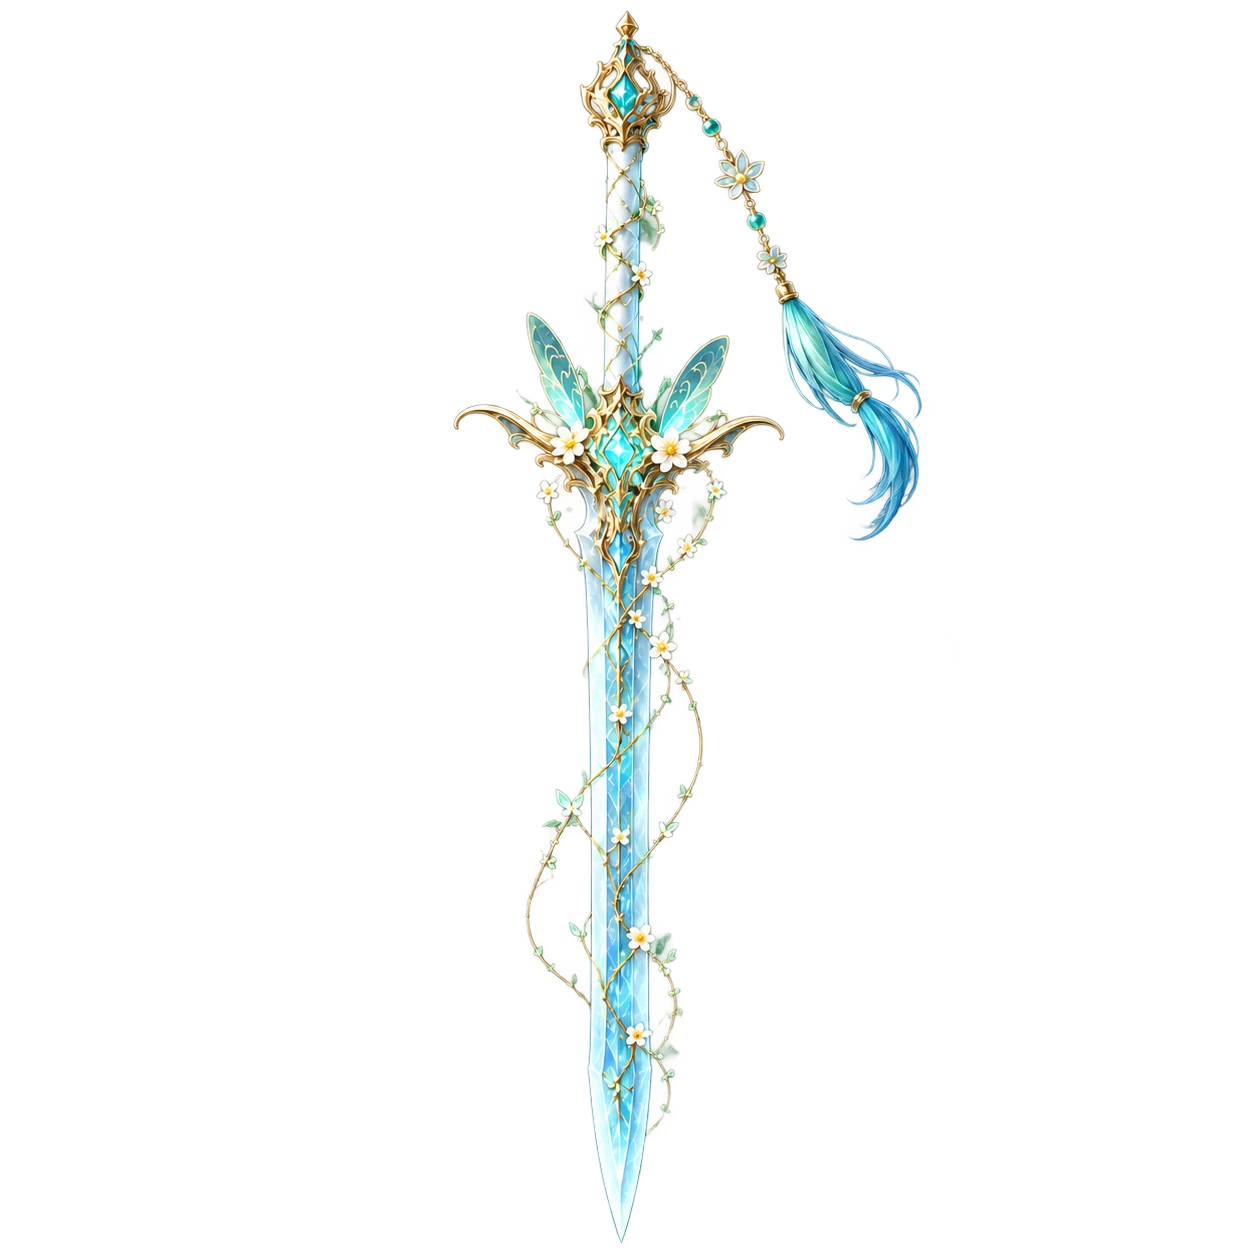
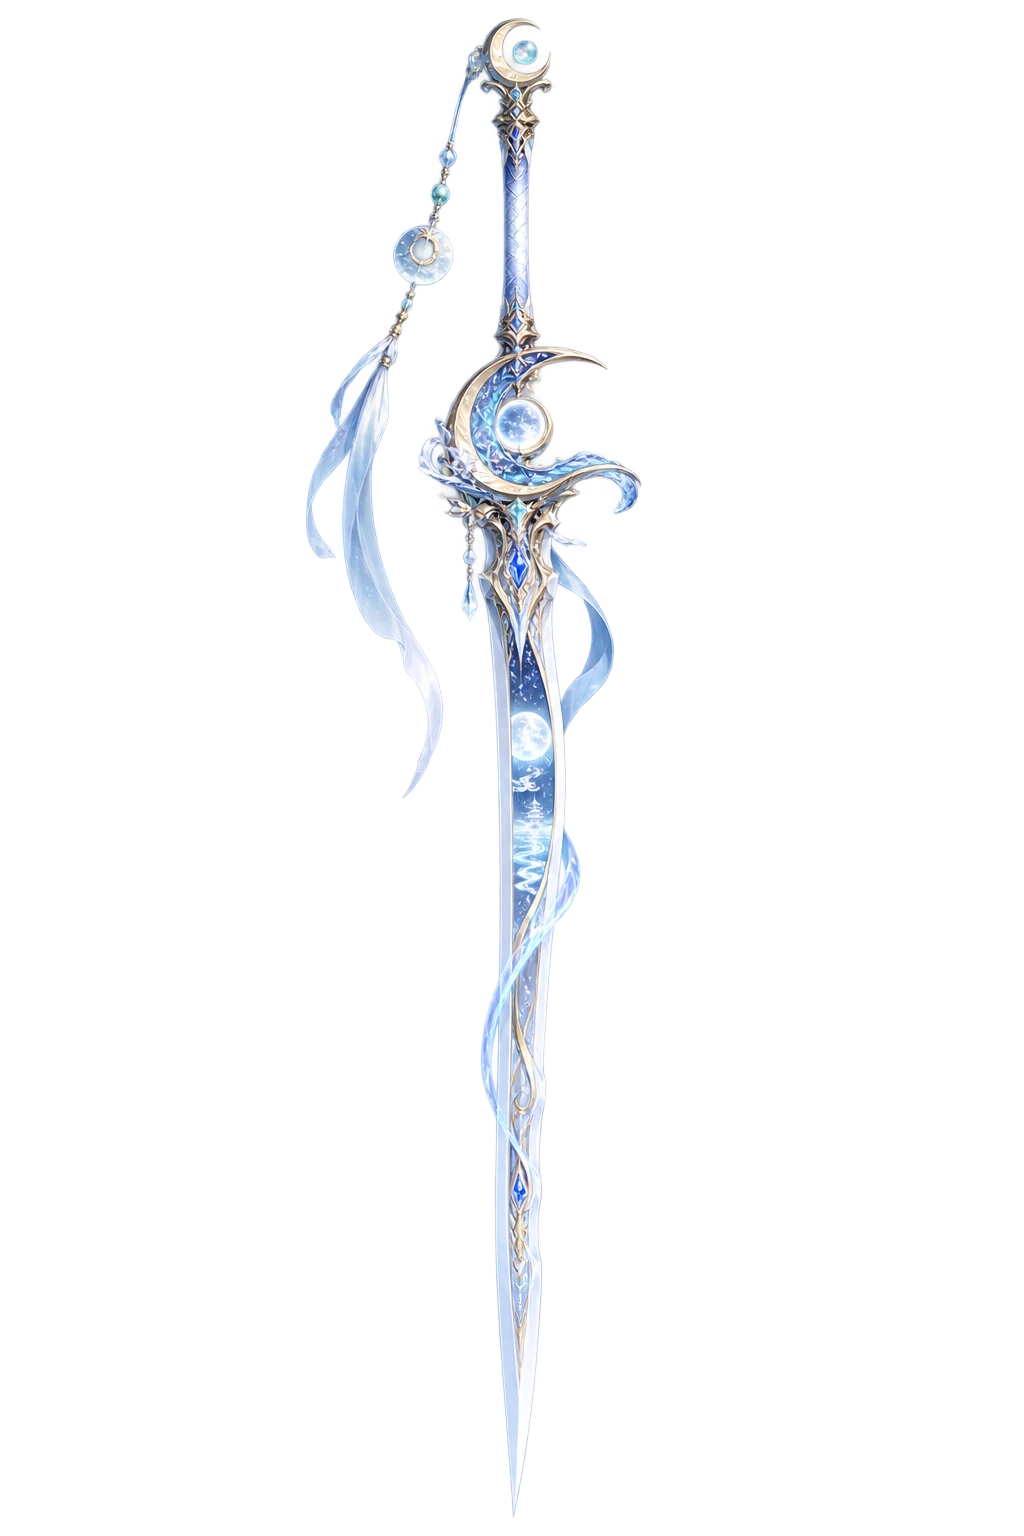
Put the right pictures on 九霄雷獄劍, 皓月流光劍 and 碧蘿花靈劍
The three images were swapped between the swords. Each image keeps the display scale it was tuned with.

Changed region(s): [[0.2812, 0.0, 0.75, 0.9952]]

diff --git a/src/game/weapons/weaponConfigs.ts b/src/game/weapons/weaponConfigs.ts
@@ -12,15 +12,15 @@ const effects = (
 });
 
 export const weaponConfigs: readonly WeaponConfig[] = [
-  { weaponId: "weapon_01", nameZh: "九霄雷獄劍", element: "雷", weaponType: "重型大劍", assetPath: asset("九霄雷獄劍"), spriteKey: "weapon_01", baseDamage: 150, attackSpeed: 0.8, baseCritRate: 0.08, gripPoint: defaultWeaponGeometry.weapon_01.gripPoint, socketOffset: { x: 84, y: -92, rotation: -24 }, displayScale: 0.43, rotationOffset: 0, attackAnimation: "雷霆重斬", attackTimeline: { windupMs: 180, swingMs: 160, impactMs: 50, recoveryMs: 220, windupAngle: -82, swingAngle: 12, recoveryAngle: -5, activeStart: 0.54, activeEnd: 0.9 }, bladeGeometry: defaultWeaponGeometry.weapon_01.bladeGeometry, bladeShape: defaultWeaponGeometry.weapon_01.bladeShape, hitboxConfig: { shape: "blade-sweep", thickness: 46 }, trailConfig: { color: 0x9ddcff, width: 28, alpha: 0.78 }, impactConfig: { color: 0xe5f7ff, knockback: 68, hitStopMs: 45, cameraShake: 0.012 }, soundConfig: sound("thunder_greatsword"), ...effects("雷靈淬體", "最終攻擊 +0.5%", { attackPercent: 0.005, critRateBonus: 0, attackSpeedBonus: 0 }, "雷獄重壓", "最終攻擊 +8%", { attackPercent: 0.08, critRateBonus: 0, attackSpeedBonus: 0 }) },
+  { weaponId: "weapon_01", nameZh: "九霄雷獄劍", element: "雷", weaponType: "重型大劍", assetPath: asset("九霄雷獄劍"), spriteKey: "weapon_01", baseDamage: 150, attackSpeed: 0.8, baseCritRate: 0.08, gripPoint: defaultWeaponGeometry.weapon_01.gripPoint, socketOffset: { x: 84, y: -92, rotation: -24 }, displayScale: 0.38, rotationOffset: 0, attackAnimation: "雷霆重斬", attackTimeline: { windupMs: 180, swingMs: 160, impactMs: 50, recoveryMs: 220, windupAngle: -82, swingAngle: 12, recoveryAngle: -5, activeStart: 0.54, activeEnd: 0.9 }, bladeGeometry: defaultWeaponGeometry.weapon_01.bladeGeometry, bladeShape: defaultWeaponGeometry.weapon_01.bladeShape, hitboxConfig: { shape: "blade-sweep", thickness: 46 }, trailConfig: { color: 0x9ddcff, width: 28, alpha: 0.78 }, impactConfig: { color: 0xe5f7ff, knockback: 68, hitStopMs: 45, cameraShake: 0.012 }, soundConfig: sound("thunder_greatsword"), ...effects("雷靈淬體", "最終攻擊 +0.5%", { attackPercent: 0.005, critRateBonus: 0, attackSpeedBonus: 0 }, "雷獄重壓", "最終攻擊 +8%", { attackPercent: 0.08, critRateBonus: 0, attackSpeedBonus: 0 }) },
   { weaponId: "weapon_02", nameZh: "星穹弦月刃", element: "星月", weaponType: "彎刃劍", assetPath: asset("星穹弦月刃"), spriteKey: "weapon_02", baseDamage: 161, attackSpeed: 0.9, baseCritRate: 0.09, gripPoint: defaultWeaponGeometry.weapon_02.gripPoint, socketOffset: { x: 88, y: -102, rotation: -34 }, displayScale: 0.37, rotationOffset: 0, attackAnimation: "星月弧斬", attackTimeline: { windupMs: 90, swingMs: 220, impactMs: 45, recoveryMs: 120, windupAngle: 108, swingAngle: -72, recoveryAngle: -28, activeStart: 0.2, activeEnd: 0.9 }, bladeGeometry: defaultWeaponGeometry.weapon_02.bladeGeometry, bladeShape: defaultWeaponGeometry.weapon_02.bladeShape, hitboxConfig: { shape: "blade-sweep", thickness: 28 }, trailConfig: { color: 0x7895ff, width: 18, alpha: 0.65 }, impactConfig: { color: 0xc7d9ff, knockback: 18, hitStopMs: 18, cameraShake: 0.003 }, soundConfig: sound("star_moon"), ...effects("星屑感應", "暴擊率 +0.75%", { attackPercent: 0, critRateBonus: 0.0075, attackSpeedBonus: 0 }, "弦月疾舞", "攻速 +10%", { attackPercent: 0, critRateBonus: 0, attackSpeedBonus: 0.1 }) },
-  { weaponId: "weapon_03", nameZh: "皓月流光劍", element: "月", weaponType: "輕型長劍", assetPath: asset("皓月流光劍"), spriteKey: "weapon_03", baseDamage: 191, attackSpeed: 1, baseCritRate: 0.1, gripPoint: defaultWeaponGeometry.weapon_03.gripPoint, socketOffset: { x: 88, y: -104, rotation: -28 }, displayScale: 0.48, rotationOffset: 0, attackAnimation: "月華連刺", attackTimeline: { windupMs: 80, swingMs: 190, impactMs: 40, recoveryMs: 110, windupAngle: -8, swingAngle: -18, recoveryAngle: -12, activeStart: 0.26, activeEnd: 0.78 }, bladeGeometry: defaultWeaponGeometry.weapon_03.bladeGeometry, bladeShape: defaultWeaponGeometry.weapon_03.bladeShape, hitboxConfig: { shape: "blade-sweep", thickness: 24 }, trailConfig: { color: 0xd9efff, width: 16, alpha: 0.72 }, impactConfig: { color: 0xf3fbff, knockback: 22, hitStopMs: 18, cameraShake: 0.003 }, soundConfig: sound("moonlight"), ...effects("月華潤息", "攻速 +1%", { attackPercent: 0, critRateBonus: 0, attackSpeedBonus: 0.01 }, "流光連刺", "暴擊率 +5%", { attackPercent: 0, critRateBonus: 0.05, attackSpeedBonus: 0 }) },
+  { weaponId: "weapon_03", nameZh: "皓月流光劍", element: "月", weaponType: "輕型長劍", assetPath: asset("皓月流光劍"), spriteKey: "weapon_03", baseDamage: 191, attackSpeed: 1, baseCritRate: 0.1, gripPoint: defaultWeaponGeometry.weapon_03.gripPoint, socketOffset: { x: 88, y: -104, rotation: -28 }, displayScale: 0.43, rotationOffset: 0, attackAnimation: "月華連刺", attackTimeline: { windupMs: 80, swingMs: 190, impactMs: 40, recoveryMs: 110, windupAngle: -8, swingAngle: -18, recoveryAngle: -12, activeStart: 0.26, activeEnd: 0.78 }, bladeGeometry: defaultWeaponGeometry.weapon_03.bladeGeometry, bladeShape: defaultWeaponGeometry.weapon_03.bladeShape, hitboxConfig: { shape: "blade-sweep", thickness: 24 }, trailConfig: { color: 0xd9efff, width: 16, alpha: 0.72 }, impactConfig: { color: 0xf3fbff, knockback: 22, hitStopMs: 18, cameraShake: 0.003 }, soundConfig: sound("moonlight"), ...effects("月華潤息", "攻速 +1%", { attackPercent: 0, critRateBonus: 0, attackSpeedBonus: 0.01 }, "流光連刺", "暴擊率 +5%", { attackPercent: 0, critRateBonus: 0.05, attackSpeedBonus: 0 }) },
   { weaponId: "weapon_04", nameZh: "宙時星盤劍", element: "時空", weaponType: "星盤法劍", assetPath: asset("宙時星盤劍"), spriteKey: "weapon_04", baseDamage: 212, attackSpeed: 1.1, baseCritRate: 0.11, gripPoint: defaultWeaponGeometry.weapon_04.gripPoint, socketOffset: { x: 80, y: -104, rotation: -12 }, displayScale: 0.34, rotationOffset: 0, attackAnimation: "時滯斬擊", attackTimeline: { windupMs: 170, swingMs: 310, impactMs: 60, recoveryMs: 180, windupAngle: 112, swingAngle: -52, recoveryAngle: -12, activeStart: 0.42, activeEnd: 0.82 }, bladeGeometry: defaultWeaponGeometry.weapon_04.bladeGeometry, bladeShape: defaultWeaponGeometry.weapon_04.bladeShape, hitboxConfig: { shape: "blade-sweep", thickness: 38 }, trailConfig: { color: 0x6daeff, width: 22, alpha: 0.65 }, impactConfig: { color: 0xd7edff, knockback: 28, hitStopMs: 32, cameraShake: 0.005 }, soundConfig: sound("chrono"), ...effects("時序感悟", "最終攻擊 +1.25%", { attackPercent: 0.0125, critRateBonus: 0, attackSpeedBonus: 0 }, "星盤加速", "暴擊率 +2%・攻速 +4%", { attackPercent: 0, critRateBonus: 0.02, attackSpeedBonus: 0.04 }) },
   { weaponId: "weapon_05", nameZh: "天穹星輝劍", element: "星光", weaponType: "聖光長劍", assetPath: asset("天穹星輝劍"), spriteKey: "weapon_05", baseDamage: 233, attackSpeed: 1.2, baseCritRate: 0.12, gripPoint: defaultWeaponGeometry.weapon_05.gripPoint, socketOffset: { x: 82, y: -104, rotation: -22 }, displayScale: 0.34, rotationOffset: 0, attackAnimation: "星輝劍氣", attackTimeline: { windupMs: 150, swingMs: 280, impactMs: 60, recoveryMs: 170, windupAngle: 118, swingAngle: -48, recoveryAngle: -16, activeStart: 0.38, activeEnd: 0.82 }, bladeGeometry: defaultWeaponGeometry.weapon_05.bladeGeometry, bladeShape: defaultWeaponGeometry.weapon_05.bladeShape, hitboxConfig: { shape: "blade-sweep", thickness: 34 }, trailConfig: { color: 0xbfe4ff, width: 22, alpha: 0.7 }, impactConfig: { color: 0xffffff, knockback: 32, hitStopMs: 30, cameraShake: 0.005 }, soundConfig: sound("starlight"), ...effects("星輝祝福", "暴擊率 +1.5%", { attackPercent: 0, critRateBonus: 0.015, attackSpeedBonus: 0 }, "聖輝爆發", "最終攻擊 +5%・攻速 +5%", { attackPercent: 0.05, critRateBonus: 0, attackSpeedBonus: 0.05 }) },
   { weaponId: "weapon_06", nameZh: "霜月清輝劍", element: "冰月", weaponType: "細劍", assetPath: asset("霜月清輝劍"), spriteKey: "weapon_06", baseDamage: 284, attackSpeed: 1.3, baseCritRate: 0.13, gripPoint: defaultWeaponGeometry.weapon_06.gripPoint, socketOffset: { x: 90, y: -104, rotation: -42 }, displayScale: 0.38, rotationOffset: 0, attackAnimation: "寒霜突刺", attackTimeline: { windupMs: 70, swingMs: 170, impactMs: 35, recoveryMs: 100, windupAngle: 4, swingAngle: -42, recoveryAngle: -30, activeStart: 0.24, activeEnd: 0.72 }, bladeGeometry: defaultWeaponGeometry.weapon_06.bladeGeometry, bladeShape: defaultWeaponGeometry.weapon_06.bladeShape, hitboxConfig: { shape: "blade-sweep", thickness: 20 }, trailConfig: { color: 0xc8f5ff, width: 14, alpha: 0.7 }, impactConfig: { color: 0xe9fdff, knockback: 16, hitStopMs: 14, cameraShake: 0.002 }, soundConfig: sound("frost_rapier"), ...effects("霜月凝息", "攻速 +1.75%", { attackPercent: 0, critRateBonus: 0, attackSpeedBonus: 0.0175 }, "冰月突刺", "暴擊率 +4%", { attackPercent: 0, critRateBonus: 0.04, attackSpeedBonus: 0 }) },
   { weaponId: "weapon_07", nameZh: "雲羽冰華劍", element: "冰風", weaponType: "羽紋仙劍", assetPath: asset("雲羽冰華劍"), spriteKey: "weapon_07", baseDamage: 313, attackSpeed: 1.4, baseCritRate: 0.14, gripPoint: defaultWeaponGeometry.weapon_07.gripPoint, socketOffset: { x: 84, y: -104, rotation: -30 }, displayScale: 0.33, rotationOffset: 0, attackAnimation: "冰羽連斬", attackTimeline: { windupMs: 110, swingMs: 240, impactMs: 50, recoveryMs: 140, windupAngle: 112, swingAngle: -65, recoveryAngle: -22, activeStart: 0.28, activeEnd: 0.86 }, bladeGeometry: defaultWeaponGeometry.weapon_07.bladeGeometry, bladeShape: defaultWeaponGeometry.weapon_07.bladeShape, hitboxConfig: { shape: "blade-sweep", thickness: 30 }, trailConfig: { color: 0xe1faff, width: 19, alpha: 0.66 }, impactConfig: { color: 0xe8fbff, knockback: 22, hitStopMs: 20, cameraShake: 0.003 }, soundConfig: sound("ice_feather"), ...effects("雲羽靈動", "暴擊率 +2%", { attackPercent: 0, critRateBonus: 0.02, attackSpeedBonus: 0 }, "冰羽連舞", "攻速 +7%", { attackPercent: 0, critRateBonus: 0, attackSpeedBonus: 0.07 }) },
   { weaponId: "weapon_08", nameZh: "玄霜雪魄劍", element: "冰", weaponType: "寒冰重劍", assetPath: asset("玄霜雪魄劍"), spriteKey: "weapon_08", baseDamage: 365, attackSpeed: 1.5, baseCritRate: 0.15, gripPoint: defaultWeaponGeometry.weapon_08.gripPoint, socketOffset: { x: 78, y: -94, rotation: -16 }, displayScale: 0.43, rotationOffset: 0, attackAnimation: "冰爆重斬", attackTimeline: { windupMs: 250, swingMs: 340, impactMs: 75, recoveryMs: 240, windupAngle: 142, swingAngle: -40, recoveryAngle: -12, activeStart: 0.5, activeEnd: 0.86 }, bladeGeometry: defaultWeaponGeometry.weapon_08.bladeGeometry, bladeShape: defaultWeaponGeometry.weapon_08.bladeShape, hitboxConfig: { shape: "blade-sweep", thickness: 48 }, trailConfig: { color: 0xa5e5ff, width: 30, alpha: 0.75 }, impactConfig: { color: 0xe1faff, knockback: 62, hitStopMs: 64, cameraShake: 0.011 }, soundConfig: sound("ice_greatsword"), ...effects("雪魄護體", "最終攻擊 +2.25%", { attackPercent: 0.0225, critRateBonus: 0, attackSpeedBonus: 0 }, "玄霜重壓", "最終攻擊 +10%", { attackPercent: 0.1, critRateBonus: 0, attackSpeedBonus: 0 }) },
-  { weaponId: "weapon_09", nameZh: "碧蘿花靈劍", element: "木", weaponType: "木靈花劍", assetPath: asset("碧蘿花靈劍"), spriteKey: "weapon_09", baseDamage: 442, attackSpeed: 1.6, baseCritRate: 0.16, gripPoint: defaultWeaponGeometry.weapon_09.gripPoint, socketOffset: { x: 84, y: -104, rotation: -26 }, displayScale: 0.38, rotationOffset: 0, attackAnimation: "花藤纏繞", attackTimeline: { windupMs: 130, swingMs: 270, impactMs: 55, recoveryMs: 160, windupAngle: 116, swingAngle: -56, recoveryAngle: -18, activeStart: 0.35, activeEnd: 0.82 }, bladeGeometry: defaultWeaponGeometry.weapon_09.bladeGeometry, bladeShape: defaultWeaponGeometry.weapon_09.bladeShape, hitboxConfig: { shape: "blade-sweep", thickness: 34 }, trailConfig: { color: 0x85d999, width: 21, alpha: 0.68 }, impactConfig: { color: 0xc7ffd5, knockback: 25, hitStopMs: 24, cameraShake: 0.004 }, soundConfig: sound("flora"), ...effects("木靈滋養", "暴擊率 +2.5%", { attackPercent: 0, critRateBonus: 0.025, attackSpeedBonus: 0 }, "花靈綻放", "最終攻擊 +4%・暴擊率 +3%", { attackPercent: 0.04, critRateBonus: 0.03, attackSpeedBonus: 0 }) },
+  { weaponId: "weapon_09", nameZh: "碧蘿花靈劍", element: "木", weaponType: "木靈花劍", assetPath: asset("碧蘿花靈劍"), spriteKey: "weapon_09", baseDamage: 442, attackSpeed: 1.6, baseCritRate: 0.16, gripPoint: defaultWeaponGeometry.weapon_09.gripPoint, socketOffset: { x: 84, y: -104, rotation: -26 }, displayScale: 0.48, rotationOffset: 0, attackAnimation: "花藤纏繞", attackTimeline: { windupMs: 130, swingMs: 270, impactMs: 55, recoveryMs: 160, windupAngle: 116, swingAngle: -56, recoveryAngle: -18, activeStart: 0.35, activeEnd: 0.82 }, bladeGeometry: defaultWeaponGeometry.weapon_09.bladeGeometry, bladeShape: defaultWeaponGeometry.weapon_09.bladeShape, hitboxConfig: { shape: "blade-sweep", thickness: 34 }, trailConfig: { color: 0x85d999, width: 21, alpha: 0.68 }, impactConfig: { color: 0xc7ffd5, knockback: 25, hitStopMs: 24, cameraShake: 0.004 }, soundConfig: sound("flora"), ...effects("木靈滋養", "暴擊率 +2.5%", { attackPercent: 0, critRateBonus: 0.025, attackSpeedBonus: 0 }, "花靈綻放", "最終攻擊 +4%・暴擊率 +3%", { attackPercent: 0.04, critRateBonus: 0.03, attackSpeedBonus: 0 }) },
   { weaponId: "weapon_10", nameZh: "寒櫻霜華劍", element: "冰花", weaponType: "寒花仙劍", assetPath: asset("寒櫻霜華劍"), spriteKey: "weapon_10", baseDamage: 493, attackSpeed: 1.7, baseCritRate: 0.17, gripPoint: defaultWeaponGeometry.weapon_10.gripPoint, socketOffset: { x: 82, y: -106, rotation: -20 }, displayScale: 0.33, rotationOffset: 0, attackAnimation: "霜華範圍斬", attackTimeline: { windupMs: 190, swingMs: 310, impactMs: 70, recoveryMs: 190, windupAngle: 128, swingAngle: -60, recoveryAngle: -16, activeStart: 0.4, activeEnd: 0.88 }, bladeGeometry: defaultWeaponGeometry.weapon_10.bladeGeometry, bladeShape: defaultWeaponGeometry.weapon_10.bladeShape, hitboxConfig: { shape: "blade-sweep", thickness: 42 }, trailConfig: { color: 0xe2f1ff, width: 27, alpha: 0.72 }, impactConfig: { color: 0xf2faff, knockback: 44, hitStopMs: 42, cameraShake: 0.007 }, soundConfig: sound("frost_blossom"), ...effects("寒櫻靈韻", "攻速 +2.75%", { attackPercent: 0, critRateBonus: 0, attackSpeedBonus: 0.0275 }, "霜華絕域", "暴擊率 +4%・攻速 +8%", { attackPercent: 0, critRateBonus: 0.04, attackSpeedBonus: 0.08 }) }
 ] as const;
 
